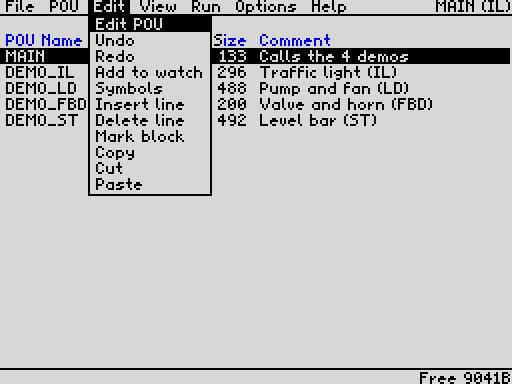
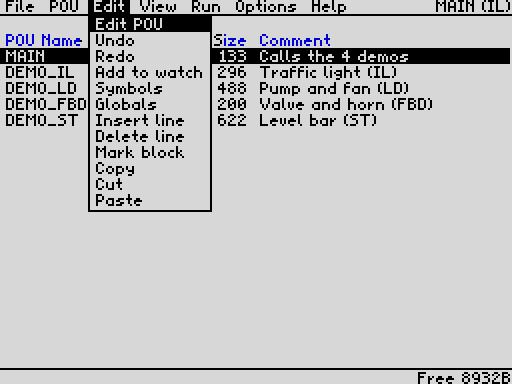
Globals: manual, screenshots, README, CLAUDE.md, a UI test
Claude-Session: https://claude.ai/code/session_01VKWfWedvrUMzzGZ6BCaduV

Changed region(s): [[0.1562, 0.25, 0.4375, 0.5625], [0.8125, 0.9688, 0.9688, 1.0], [0.4062, 0.2812, 0.4688, 0.3438]]

diff --git a/tools/st_uitest.py b/tools/st_uitest.py
@@ -105,6 +105,19 @@ class UI:
             i += n
         return out
 
+    def globals(self):
+        """[(name, g, type byte, init, comment)] of the AR_GV symbol records"""
+        b, i, out = self.body(8), 0, []
+        while i < len(b):
+            n = b[i]
+            if b[i + 1] == 0x4F:
+                rec = b[i + 3:i + n]
+                name, rest = rec.split(b"\0", 1)
+                out.append((name.decode(), b[i + 2], rest[0], rest[1] | rest[2] << 8,
+                            rest[3:].decode("latin1")))
+            i += n
+        return out
+
     def mw(self, n):
         return int.from_bytes(self.mem(RT_MW + 2 * n, 2), "little", signed=True)
 
@@ -171,6 +184,29 @@ def run():
 
 # ============================================================ tests
 RESULTS = []
+
+
+def t_globals(ui):
+    """Edit > Globals: declarations typed (':' to the type, normalised), a bad
+    init value refused, the globals used in ST, their values after Run"""
+    s = "k:CS+SPACE w5 k:E w10 k:G w40 "
+    s += T("speed:int:=7") + "k:SPACE w10 " + T("motor speed") + E
+    s += T("on:bool") + E
+    s += T("bt:byte:=300") + E + "shot:gv_bad k:ENTER w30 " + DEL * 3 + T("250") + E
+    ui.play(s + "w20 shot:gv ")
+    got = ui.globals()
+    exp = [("Speed", 0, 0x81, 7, "Motor speed"), ("On", 1, 0x00, 0, ""), ("Bt", 2, 0x83, 250, "")]
+    compare("globals: records", got, exp)
+    s = to_list() + new_st("GV") + T("speed := speed + 1;") + E + T("on := TRUE;") + E
+    s += T("bt := bt + 10;") + E
+    ui.play(s + to_list() + main_call("GV") + run())
+    lv = ui.z.bank_bytes(4, 0xFD00, 6)
+    sp = int.from_bytes(lv[0:2], "little")
+    check("globals: Speed counts from 7", sp > 7, sp)
+    check("globals: On = TRUE", lv[2] == 1, lv[2])
+    k = sp - 7                  # scans so far: Bt = (250 + 10 k) mod 256, high byte 0
+    check("globals: Bt BYTE wraps (250 + 10 per scan)", k > 1 and lv[5] == 0 and
+          lv[4] in ((250 + 10 * k) % 256, (250 + 10 * (k - 1)) % 256), (k, lv[4:6].hex()))
 
 
 def check(name, cond, info=""):
@@ -500,7 +536,7 @@ def t_palmouse(ui):
 TESTS = {"long": t_long, "edit": t_edit, "clip": t_clip, "autodecl": t_autodecl,
          "manual": t_manual, "compl": t_compl, "autorun": t_autorun,
          "errors": t_errors, "semicolon": t_semicolon, "varpaste": t_varpaste, "toolong": t_toolong,
-         "view": t_view, "palette": t_palette, "palmouse": t_palmouse}
+         "view": t_view, "palette": t_palette, "palmouse": t_palmouse, "globals": t_globals}
 
 
 def main():

diff --git a/tools/docshots.py b/tools/docshots.py
@@ -45,6 +45,9 @@ SHOTS = [
     ("st_compl", ST + D * 4 + "k:SS+ENTER w30 t:T w5 k:SS+SPACE w60 " + D + "w20"),
     ("st_vars", ST + D * 4 + "k:SS+ENTER w30 t:count~:=~count~+~1; w5 " + D + "w40"),
     ("symbols", MENU + "k:E w5 k:S w60"),
+    ("globals", MENU + "k:E w5 k:G w40 t:speed: w5 t:int:=100 w5 k:SPACE w5 t:motor~speed w5 k:ENTER w40"
+     " t:count: w5 t:byte w5 k:SPACE w5 t:parts~counted w5 k:ENTER w40"
+     " t:running: w5 t:bool:=true w5 k:SPACE w5 t:machine~runs w5 k:ENTER w40"),
     ("sim_il", IL + RUN + "k:0 w150"),
     ("sim_ld", LD + RUN + "k:4 w60"),
     ("sim_fbd", FBD + RUN + "k:B w5 k:0 w5 k:2 w60"),

diff --git a/CLAUDE.md b/CLAUDE.md
@@ -23,7 +23,7 @@ editor and key for users.
   - The test builds and the demo builder (`-DMKDEMO`) leave out `src/sim.asm` (`WITH_SIM` in main.asm,
     `scr_run` is a stub there) to make room in the EDIT bank.
 - `make uitest`: UI tests of the ST editor (`tools/st_uitest.py`, a few seconds): key scripts played into
-  `zxplc.sna` (a new ST POU per test: typing a longer program with completion / splitting / folding,
+  `zxplc.sna` (a new ST POU per test: typing a longer program with completion / splitting / folding, the Globals page,
   corrections + undo / redo, clipboard, auto-declaration, a typed VAR block, name completion,
   compile errors, a too long line), then the stored lines (indent + text) are read from PROJ and the
   results of Run from RT / the compile error (`il_err`, `cp_line` via zxplc.sym). `--shots DIR`
@@ -98,7 +98,7 @@ editor and key for users.
   the build; run it after `make` when modules move or grow.
 - `python3 tools/fixjr.py main.asm`: builds and converts every out-of-range `jr` to `jp` in the source,
   then prints the remaining errors. Run it after edits that make code longer.
-- `python3 tools/xref.py --check "pou:R,app:E,il_edit:E,sym_edit:E,ld_edit:E,sim:E,st_view:E,demo:E,il_comp:R,vm:R,ld_comp:R,fbd_comp:R,st_comp:R,st_var:R,tape:R,tests:E,fbd_edit:F,st_edit:F,tools:D,clip:D,wexpr:D,mouse:D,undo:S,ur4:D,trend:D,sd:R,complete:D,il_check:A"`:
+- `python3 tools/xref.py --check "pou:R,app:E,il_edit:E,sym_edit:E,ld_edit:E,sim:E,st_view:E,demo:E,il_comp:R,vm:R,ld_comp:R,fbd_comp:R,st_comp:R,st_var:R,tape:R,tests:E,fbd_edit:F,st_edit:F,tools:D,clip:D,wexpr:D,mouse:D,undo:S,ur4:D,trend:D,sd:R,complete:D,il_check:A,globals:A"`:
   reports labels referenced across paged banks without `BCALL`. Unlisted modules are core. The
   `run_tests` / `demo_build` hits in main.asm are expected. Extend the map when a module moves.
 - Headless emulator: `.scratch/venv/bin/python tools/zxrun.py zxplc.sna -f 30 -s "<script>"`
@@ -118,7 +118,7 @@ editor and key for users.
 ## Memory architecture (128K)
 - **Fixed memory:**
   - 0x5B00 TEST_RES; the stack below 0x5E00.
-  - Core code at 0x5E00. The build prints the free space: about 580 B are left. New code goes into
+  - Core code at 0x5E00. The build prints the free space: about 260 B are left. New code goes into
     the banks; the menu tables and texts (src/menu.asm) are core too (the command dispatcher
     `menu_cmd` is in the DEMO bank, tools.asm).
   - RT runtime data at 0x8A00. These are EQUs in `src/vm.asm`: I/Q (2 bytes each, %IX0.0-1.7)/M/MW, FB instances, scratch bits,
@@ -132,7 +132,8 @@ editor and key for users.
   - RUN 4: compilers (also `src/st_comp.asm`, `src/st_var.asm`), VM, bytecode at 0xF000, POU list, tape,
     SD card (`src/sd.asm`). It is uncontended, which tape timing needs (~0.4 KB free). Above `BCODE_END`:
     0xF800-0xFBFF the ST tokenizer of the compiler, 0xFC00 / 0xFD00 the ST locals (LV_INIT / LV_BASE).
-  - DATA 1: the popup save buffer, `src/il_check.asm` (the IL line check `il_check` / `il_check_label`,
+  - DATA 1: the popup save buffer, `src/globals.asm` (declarations of the global variables),
+    `src/il_check.asm` (the IL line check `il_check` / `il_check_label`,
     called through `il_chk` / `il_chk_label` in il_edit.asm, which copy the texts to fixed memory first)
     and the clipboard (`clip_buf`, filled by `src/clip.asm`, at least 12 KB; the build prints the free
     space as "DATA").
@@ -255,6 +256,22 @@ editor and key for users.
     rows are handled like preset cells by `fb_prow`. Placing an FBD block only chooses the operator
     (`wx_opsel`); the values are asked one at a time on their cells (`wx_value`). A block right behind a compute result takes D as its
     A (`fc_link` in fbd_comp.asm, the same when placed).
+- **Global variables** (Edit > Globals, `CMD_GLOBALS`):
+  - A global is a record of the symbol table with area `AR_GV` (= AR_LV | 0x40), index = its number g
+    (0..GV_MAX-1, a new one gets the number after the highest, `gv_new`) and its declaration after the
+    name: `[len][AR_GV][g][name 0][type][init lo][init hi][comment]` (type GT_BOOL 0 / GT_INT 1 /
+    GT_BYTE 3, + GT_INIT 0x80 if an init value was given). AR_GV records sort after all symbols;
+    `sym_range` gives the symbol editor its part (`sy_gmode` 0 symbols / 1 globals, set by `cmd_target`).
+    `sym_store` writes `sym_decl` into a global's record, `sym_cmt` skips it, `gv_find` reads it.
+  - The value is the word LV_BASE + 2g (RUN bank); the ST locals follow the globals (`lv_first` starts at
+    `gv_top`), `gv_init` (st_var.asm) writes the init values to LV_INIT when compiling. Operands keep
+    [AR_GV][g] (IL / LD / FBD records), so a rename or type change keeps them; ST stores the name as
+    text and resolves it through `op_parse` (`sc_gvop`: AR_LV + type * 16). `cp_operand_core` maps it
+    to VM_MB (bit 0) / VM_MW / VM_MBY (BYTE, the low byte, a VM mode). `op_format` prints the name.
+  - The editor is sym_edit.asm with `sy_gmode` = 1: the address column holds "TYPE [:= value]"
+    (`gv_parse` / `gv_fmt` / `gv_fmtd` in `src/globals.asm`, DATA bank, on copies in fixed memory),
+    the comment starts at SY_GX_COMM; ':' after the name goes on to the type.
+  - The simulation reads PLC data from 0xC000 up through `rt_byte` (core, pages the RUN bank).
 - **Structured Text** (LANG_ST):
   - Body: line records `[len][K_STXT][indent][text]` (no 0). The text is stored normalised (keywords
     upper case, one space between tokens) and with every operand that has an address as its IEC

diff --git a/docs/MANUAL.md b/docs/MANUAL.md
@@ -156,6 +156,7 @@ Each menu title opens a drop-down list. The first letter of a title or item is i
 | Redo | redo the undone change (also SS+Y) |
 | Add to watch | add the operand at the cursor to the watch list (also SS+W) |
 | Symbols | the symbol editor |
+| Globals | the global variables (name, type, initial value) |
 | Insert line | insert an empty line / row |
 | Delete line | delete the current line / row |
 | Mark block | mark the start of a block (also SS+A) |
@@ -292,6 +293,9 @@ esxDOS `SYS` folder.
   steps of its byte, which makes step sequences easy (see DEMO_IL).
 * **Symbols** (Edit > Symbols) give operands names. A symbol can be typed instead of an address
   anywhere.
+* **Global variables** (Edit > Globals) are named variables without an address: `BOOL`, `BYTE`
+  (0-255) or `INT`. They are used by their name in IL, LD, FBD and ST, see
+  [Global variables](#global-variables).
 * The time base is 20 ms (one scan per frame).
 
 ## 6. IL editor
@@ -559,6 +563,26 @@ dark blue), the address (black) and a comment (up to 30 characters, dark green).
 * Symbols can name inputs, outputs, memory bits, INT words (`%MW`), step flags, system flags and FB
   instances. In ST, named INT words work as variables (`Level := Level + 1;`).
 
+### Global variables
+
+![Global variables](img/globals.png)
+
+**Edit > Globals** is the same editor for the global variables of the project. A row is
+`Name : TYPE [:= value]` and a comment:
+
+* Type the name, then `:` (or SPACE) and the type: `bool`, `byte` or `int`, optionally followed by an
+  initial value, e.g. `byte:=10`. It is stored as `BYTE := 10`. Without a value a variable starts at
+  0 / FALSE.
+* `BOOL` takes `TRUE` / `FALSE`, `BYTE` 0 to 255 (it wraps: 255 + 1 = 0), `INT` -32768 to 32767.
+* The name can be used in every language instead of an address: `LD Speed`, a contact `Run`, a
+  compare block `Speed > 100`, `Speed := Speed + 1;` in ST. LD / FBD contacts and coils take `BOOL`
+  variables, word operands any type.
+* The values are shown in the simulation, can be added to the watch list (SS+W) and forced there.
+* Run and Reset set the initial values again.
+* Up to 64 globals; together with the ST local variables they share 126 words.
+* IL, LD and FBD keep a reference to the variable, so renaming it changes them too. ST keeps the name
+  as text: after a rename, correct the ST lines (the compiler reports the old name).
+
 ## 11. Simulation
 
 **Run > Run** compiles all POUs and runs MAIN once per frame. A compile error opens the editor of that POU at
@@ -739,12 +763,13 @@ times.
 | POU name / comment | 8 / 20 characters |
 | Symbol name / comment | 8 / 30 characters |
 | Watch list | 16 operands |
+| Global variables | 64 (`BOOL`, `BYTE`, `INT`), name 8 characters |
 | Call depth | 8 |
 | Watchdog | 30000 instructions per scan |
 | Edge contacts (P / N) | 32 per project |
 | ST line | 60 characters |
 | ST expression | 8 nested right sides (`a - (b - (c - ...))`) |
 | ST FB call outputs (`=>`) | 4 per call |
-| ST local variables | 126 in all POUs together |
+| ST local variables | 126 in all POUs together (minus the global variables) |
 
 For the program structure, memory map and build details see `README.md` and `CLAUDE.md`.

diff --git a/README.md b/README.md
@@ -26,6 +26,8 @@ not downloaded to a real PLC; they run in the built-in simulation with live moni
   * live colouring of the program in LD and FBD, live values in IL and ST;
   * a watch / force table, a trend page (time charts of the watched signals and timer / counter progress), step and reset.
 * **Symbols:** names and comments for every address, used everywhere instead of addresses.
+* **Global variables:** named BOOL / BYTE / INT variables without an address (Edit > Globals), with an
+  optional initial value, used by name in IL, LD, FBD and ST.
 * **A demo project** (traffic light in IL, pump and fan in LD, valve and horn in FBD) opens at the start.
 
 ## Unusual for a Spectrum program
